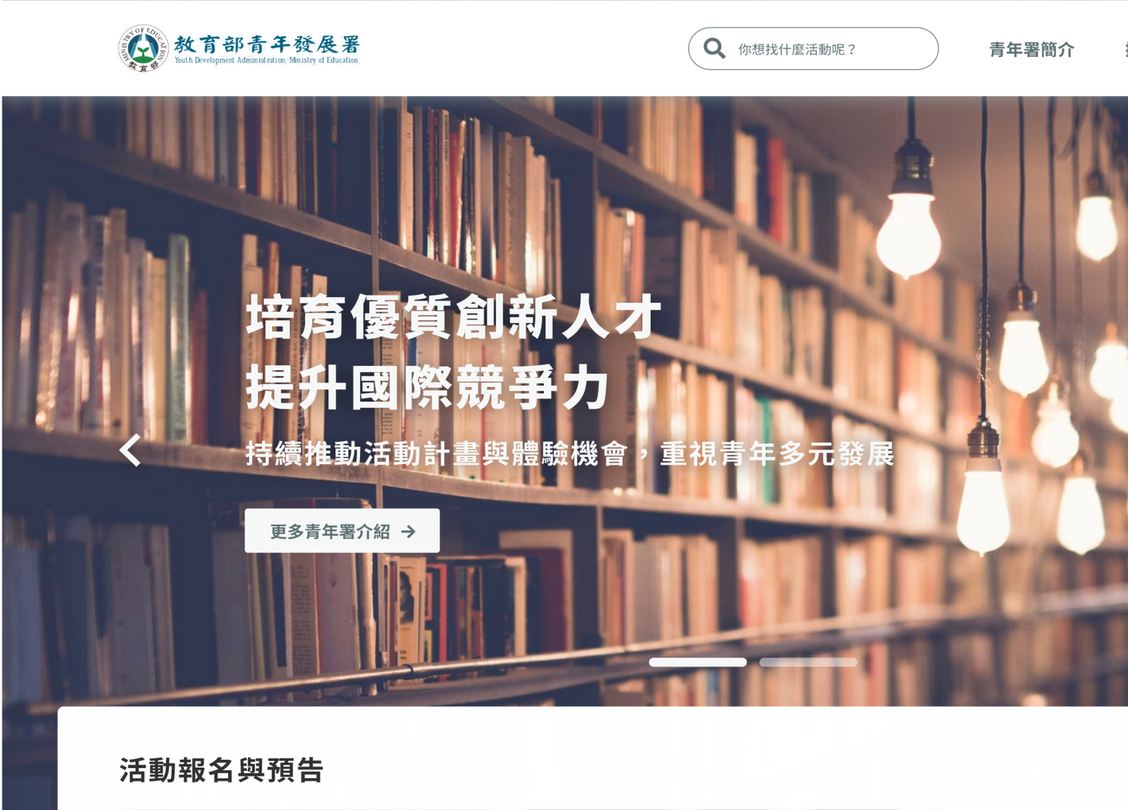
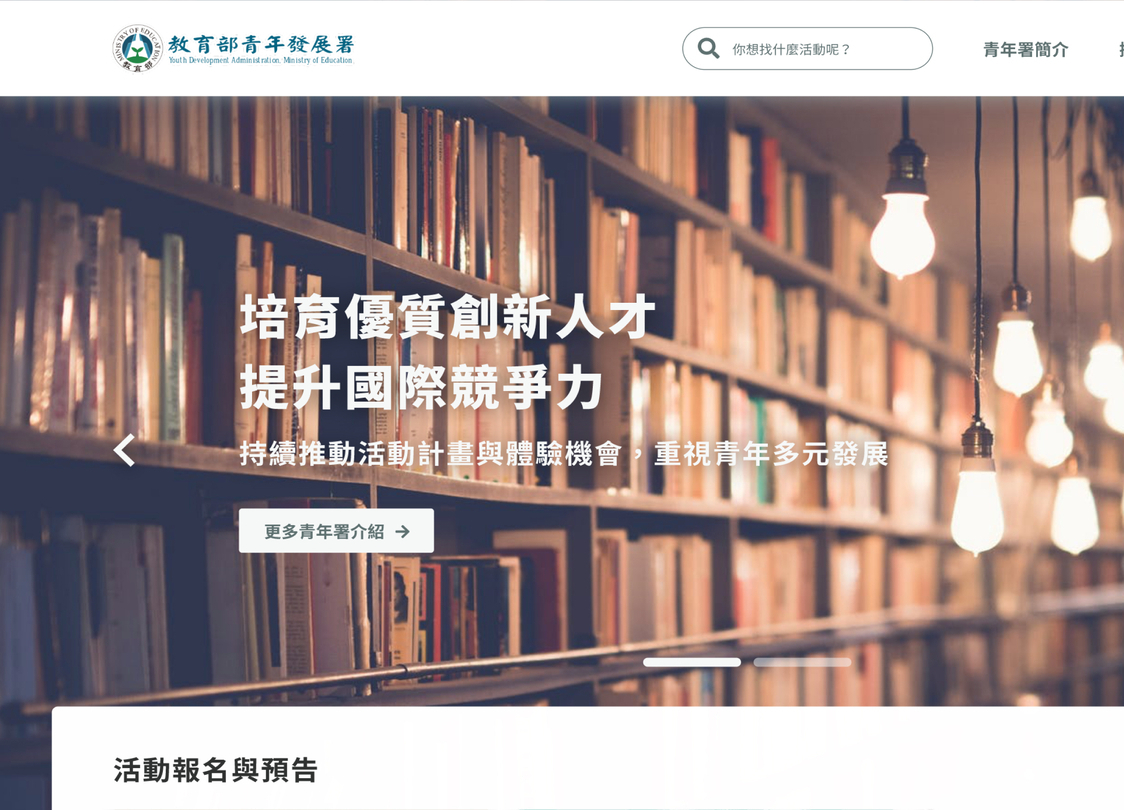
Update project design & demo images

diff --git a/pages/_project/index.vue b/pages/_project/index.vue
@@ -366,7 +366,7 @@ span#view-after a:not(:last-child) {
 }
 
 #header > .button {
-  margin: 3em;
+  margin: 1.5em;
 }
 
 @media screen and (max-width: 991px) {

diff --git a/content/klcg/mc.md b/content/klcg/mc.md
@@ -1,1 +1,1 @@
-#### **「嘿，基隆市政府全球資訊網<br/>，我們如何解決服務歸納不清、頁面說明不足、特色未充足展現的問題？」**
+#### **「嘿，基隆市政府全球資訊網，<br/>我們如何解決服務歸納不清、頁面說明不足、特色未充足展現的問題？」**

diff --git a/content/taichung_society/mc.md b/content/taichung_society/mc.md
@@ -1,1 +1,1 @@
-#### **「嘿，臺中市政府社會局<br/>，我們如何提供明確指引、清楚化申辦方式，以及打通線上下的服務渠道？」**
+#### **「嘿，臺中市政府社會局，<br/>我們如何提供明確指引、清楚化申辦方式，以及打通線上下的服務渠道？」**

diff --git a/content/yda/mc.md b/content/yda/mc.md
@@ -1,1 +1,1 @@
-#### **「嘿，教育部青年署官網<br/>，我們如何解決查詢活動耗時、活動參與度低、使用者等待焦慮的問題？」**
+#### **「嘿，教育部青年署官網，<br/>我們如何解決查詢活動耗時、活動參與度低、使用者等待焦慮的問題？」**

diff --git a/content/edesk_bli/mc.md b/content/edesk_bli/mc.md
@@ -1,1 +1,1 @@
-#### **「嘿，勞動部勞工保險局e化服務系統<br/>，我們如何解決無法有效引導使用者、安心感不足的問題？」**
+#### **「嘿，勞動部勞工保險局e化服務系統，<br/>我們如何解決無法有效引導使用者、安心感不足的問題？」**
